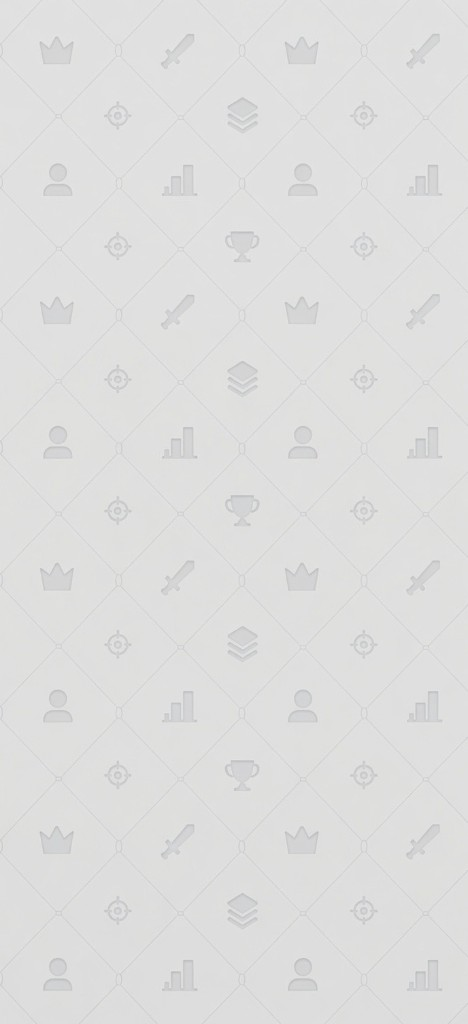
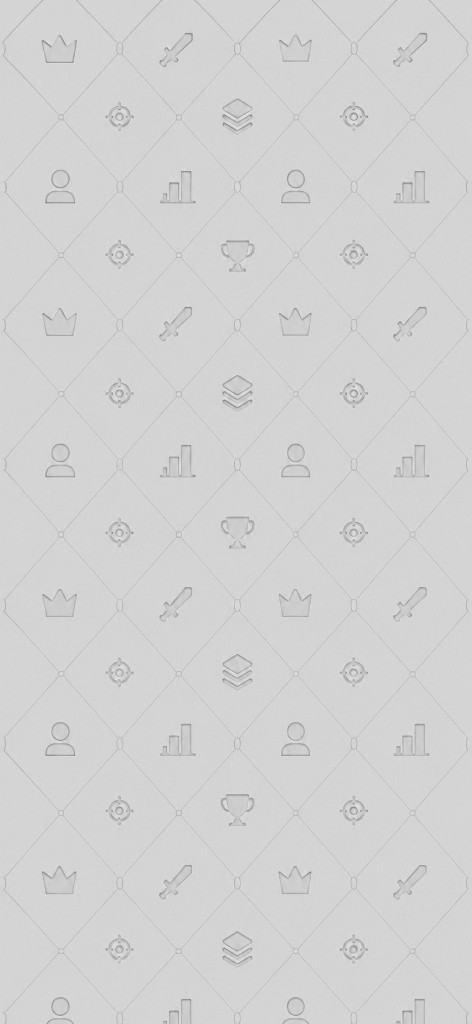
fix: update themed wallpapers with less cropping
Ship new dark/light pattern tiles and scale by viewport width so the full motif repeats without cover crop.

diff --git a/src/styles/global.css b/src/styles/global.css
@@ -18,10 +18,11 @@
     --cr-accent: 147 180 255;
     --cr-border: 255 255 255;
     --cr-border-alpha: 0.08;
-    --cr-bg-top: #111a36;
-    --cr-bg-bottom: #111a36;
+    --cr-bg-top: #050b23;
+    --cr-bg-bottom: #050b23;
     --cr-bg-pattern: url("/bg-dark.png");
-    --cr-bg-pattern-size: auto;
+    /* Full tile width ≤ viewport — no side crop; height keeps aspect, then repeats */
+    --cr-bg-pattern-size: min(100vw, 29.5rem) auto;
     --cr-glass-bg: rgb(var(--cr-card) / 0.42);
     --cr-glass-bg-strong: rgb(var(--cr-card) / 0.55);
     --cr-glass-blur: blur(18px) saturate(150%);
@@ -59,10 +60,10 @@
     --cr-accent: 29 78 216;
     --cr-border: 100 116 139;
     --cr-border-alpha: 0.22;
-    --cr-bg-top: #dedede;
-    --cr-bg-bottom: #dedede;
+    --cr-bg-top: #d4d4d4;
+    --cr-bg-bottom: #d4d4d4;
     --cr-bg-pattern: url("/bg-light.png");
-    --cr-bg-pattern-size: auto;
+    --cr-bg-pattern-size: min(100vw, 29.5rem) auto;
     --cr-glass-bg: rgb(255 255 255 / 0.48);
     --cr-glass-bg-strong: rgb(255 255 255 / 0.62);
     --cr-glass-blur: blur(18px) saturate(140%);
@@ -127,7 +128,7 @@
     -webkit-tap-highlight-color: transparent;
   }
 
-  /* Fixed seamless wallpaper — native tile size, repeats without seams */
+  /* Fixed wallpaper: scale tile to viewport width (no crop), keep ratio, seamless repeat */
   body::before {
     content: "";
     position: fixed;
@@ -137,7 +138,7 @@
     background-color: var(--cr-bg-top);
     background-image: var(--cr-bg-pattern);
     background-repeat: repeat;
-    background-position: top left;
+    background-position: top center;
     background-size: var(--cr-bg-pattern-size);
   }
 
